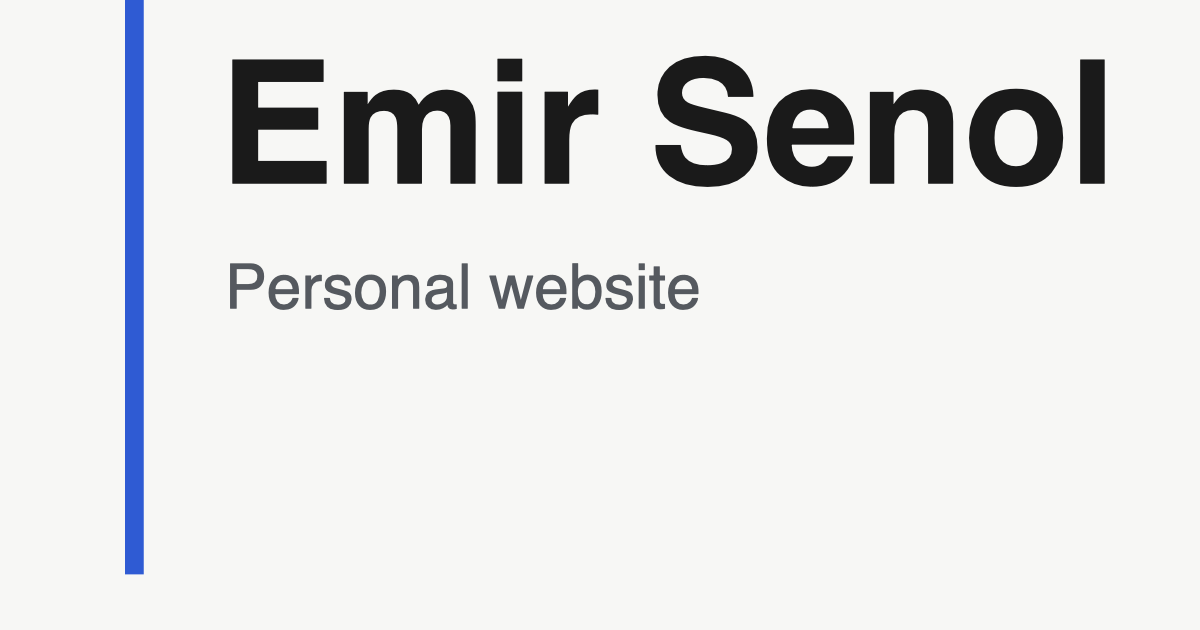
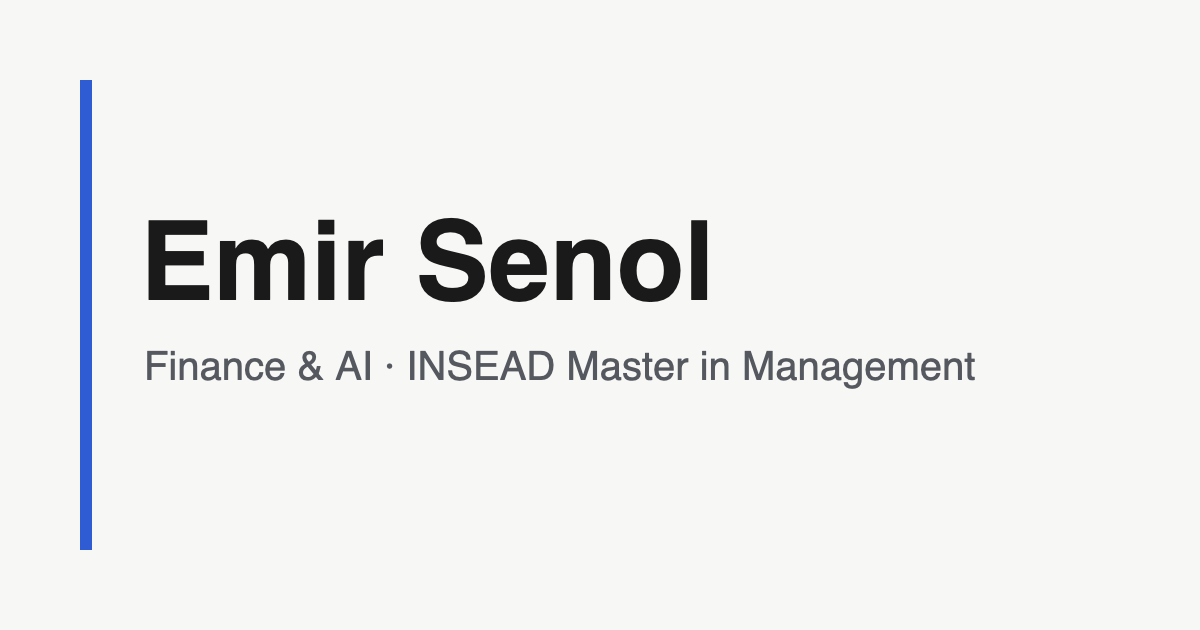
Fill in site content from résumé
Replace placeholder text with real bio, skills, languages, projects,
experience and contact details; refresh the social preview image and
page metadata. Keep the local .claude/ preview config out of Git.

Changed region(s): [[0.0617, 0.0, 0.6167, 0.9349], [0.185, 0.0905, 0.925, 0.3016], [0.3392, 0.5429, 0.8325, 0.6032]]

diff --git a/index.html b/index.html
@@ -10,22 +10,23 @@
        If you change your Netlify address, update https://personal-portfolio1-kbnw.netlify.app
        below too (social sites need a full URL for images).
        ============================================================ -->
-  <title>Emir Senol — Personal Website</title>
-  <meta name="description" content="Emir Senol's personal website: about, projects, experience, and how to get in touch.">
+  <title>Emir Senol — Finance &amp; AI</title>
+  <meta name="description" content="Emir Senol is an INSEAD Master in Management student working where finance meets AI, with experience at PwC, the Credit Bureau of Turkey and Union Bancaire Privée.">
   <meta name="author" content="Emir Senol">
   <meta name="theme-color" content="#f7f7f5" media="(prefers-color-scheme: light)">
   <meta name="theme-color" content="#121212" media="(prefers-color-scheme: dark)">
   <meta name="color-scheme" content="light dark">
+  <link rel="canonical" href="https://personal-portfolio1-kbnw.netlify.app/">
 
   <meta property="og:type" content="website">
-  <meta property="og:title" content="Emir Senol">
-  <meta property="og:description" content="Emir Senol's personal website: about, projects, experience, and how to get in touch.">
+  <meta property="og:title" content="Emir Senol — Finance &amp; AI">
+  <meta property="og:description" content="INSEAD Master in Management student working where finance meets AI. Previously at PwC, the Credit Bureau of Turkey and Union Bancaire Privée.">
   <meta property="og:url" content="https://personal-portfolio1-kbnw.netlify.app/">
   <meta property="og:image" content="https://personal-portfolio1-kbnw.netlify.app/images/og-image.png">
-  <meta property="og:image:alt" content="Emir Senol — personal website">
+  <meta property="og:image:alt" content="Emir Senol — Finance &amp; AI">
   <meta name="twitter:card" content="summary_large_image">
-  <meta name="twitter:title" content="Emir Senol">
-  <meta name="twitter:description" content="Emir Senol's personal website: about, projects, experience, and how to get in touch.">
+  <meta name="twitter:title" content="Emir Senol — Finance &amp; AI">
+  <meta name="twitter:description" content="INSEAD Master in Management student working where finance meets AI. Previously at PwC, the Credit Bureau of Turkey and Union Bancaire Privée.">
   <meta name="twitter:image" content="https://personal-portfolio1-kbnw.netlify.app/images/og-image.png">
 
   <link rel="icon" href="images/favicon.svg" type="image/svg+xml">
@@ -60,9 +61,9 @@
         <p class="eyebrow">Hi, I'm</p>
         <h1 class="hero__name">Emir Senol</h1>
         <!-- EDIT ME: your one-line tagline -->
-        <p class="hero__tagline">[Your tagline] — e.g. “Builder, learner, and curious about how things work.”</p>
+        <p class="hero__tagline">I work where finance meets AI. Master in Management student at INSEAD, previously at PwC, the Credit Bureau of Turkey and Union Bancaire Privée.</p>
         <div class="hero__actions">
-          <a class="btn btn--primary" href="#projects">See my work</a>
+          <a class="btn btn--primary" href="#experience">See my experience</a>
           <a class="btn" href="#contact">Get in touch</a>
         </div>
       </div>
@@ -74,51 +75,59 @@
       <div class="about">
         <!-- EDIT ME: your 2–3 sentence bio -->
         <p>
-          [Your bio, sentence one: who you are and what you're focused on right now.]
-          [Sentence two: what you enjoy building or studying, and why.]
-          [Sentence three: what you're looking for — opportunities, collaborators, or just saying hello.]
+          I'm a Master in Management student at INSEAD in Singapore, after a BSc in
+          International Economics, Management and Computer Science at Bocconi University in Milan.
+          My work so far has sat between finance and technology: IPOs and bond offerings at PwC,
+          Turkish-language LLM tools and synthetic credit data at the Credit Bureau of Turkey,
+          and investment analysis at Union Bancaire Privée in Geneva.
+          I'm drawn to problems that need both a solid financial model and the data skills to back it up.
         </p>
         <h3 class="about__subtitle">What I do</h3>
         <!-- EDIT ME: add, remove, or rename skills -->
         <ul class="tags" aria-label="Skills">
-          <li>HTML &amp; CSS</li>
-          <li>JavaScript</li>
-          <li>Python</li>
-          <li>Git &amp; GitHub</li>
-          <li>[Skill]</li>
-          <li>[Skill]</li>
+          <li>Financial modelling &amp; valuation</li>
+          <li>Capital markets (IPOs &amp; bonds)</li>
+          <li>Accounting &amp; financial statement analysis</li>
+          <li>Python (pandas, PyTorch, scikit-learn)</li>
+          <li>Machine learning &amp; LLMs</li>
+          <li>SQL &amp; R</li>
+        </ul>
+        <h3 class="about__subtitle">Languages</h3>
+        <ul class="tags" aria-label="Languages">
+          <li>Turkish (native)</li>
+          <li>English (native)</li>
+          <li>Italian (intermediate)</li>
         </ul>
       </div>
     </section>
 
     <!-- ===================== PROJECTS ===================== -->
     <section class="section container reveal" id="projects" aria-labelledby="projects-title">
-      <h2 class="section__title" id="projects-title">Projects</h2>
-      <!-- EDIT ME: one <li class="card"> per project. Copy/paste a block to add more. -->
+      <h2 class="section__title" id="projects-title">Projects &amp; Research</h2>
+      <!-- EDIT ME: one <li class="card"> per project. Copy/paste a block to add more.
+           A project without a public link can simply leave out the <a class="card__link"> line. -->
       <ul class="cards">
         <li class="card">
-          <!-- EDIT ME: swap in a screenshot, e.g. images/project-1.png -->
-          <img class="card__img" src="images/project-placeholder.svg" alt="Screenshot of Personal Website" width="640" height="360" loading="lazy">
+          <!-- EDIT ME: swap in an image, e.g. images/project-thesis.png -->
+          <img class="card__img" src="images/project-placeholder.svg" alt="" width="640" height="360" loading="lazy">
           <div class="card__body">
-            <h3 class="card__title">Personal Website</h3>
-            <p>This site — hand-written HTML, CSS and JavaScript, deployed on Netlify.</p>
+            <h3 class="card__title">Innovation Strategies: EU, USA &amp; China</h3>
+            <p>Bocconi undergraduate thesis comparing national innovation systems (policy, funding and public–private collaboration) to draw recommendations for the UAE.</p>
+          </div>
+        </li>
+        <li class="card">
+          <img class="card__img" src="images/project-placeholder.svg" alt="" width="640" height="360" loading="lazy">
+          <div class="card__body">
+            <h3 class="card__title">The Evergrande Crisis</h3>
+            <p>Published analysis for the Bocconi Economics Students Association on China's real-estate risks and their global financial implications.</p>
+          </div>
+        </li>
+        <li class="card">
+          <img class="card__img" src="images/project-placeholder.svg" alt="" width="640" height="360" loading="lazy">
+          <div class="card__body">
+            <h3 class="card__title">This website</h3>
+            <p>Hand-written HTML, CSS and JavaScript with no build step, deployed on Netlify from GitHub.</p>
             <a class="card__link" href="https://github.com/emirsenol2011-coder/personal-portfolio1">View on GitHub <span aria-hidden="true">→</span></a>
-          </div>
-        </li>
-        <li class="card">
-          <img class="card__img" src="images/project-placeholder.svg" alt="Screenshot of Project Two" width="640" height="360" loading="lazy">
-          <div class="card__body">
-            <h3 class="card__title">[Project Two]</h3>
-            <p>[One-line description of what it does and what you used to build it.]</p>
-            <a class="card__link" href="#">View project <span aria-hidden="true">→</span></a>
-          </div>
-        </li>
-        <li class="card">
-          <img class="card__img" src="images/project-placeholder.svg" alt="Screenshot of Project Three" width="640" height="360" loading="lazy">
-          <div class="card__body">
-            <h3 class="card__title">[Project Three]</h3>
-            <p>[One-line description of what it does and what you used to build it.]</p>
-            <a class="card__link" href="#">View project <span aria-hidden="true">→</span></a>
           </div>
         </li>
       </ul>
@@ -130,19 +139,34 @@
       <!-- EDIT ME: one <li> per item, newest first -->
       <ol class="timeline">
         <li class="timeline__item">
-          <p class="timeline__date">[2025 — Present]</p>
-          <h3 class="timeline__title">[Role or Program] · <span class="timeline__org">[Organization]</span></h3>
-          <p>[One or two lines on what you did or learned.]</p>
+          <p class="timeline__date">2026 — 2028</p>
+          <h3 class="timeline__title">Master in Management · <span class="timeline__org">INSEAD, Singapore</span></h3>
+          <p>Ranked #3 worldwide in the Financial Times Master in Management ranking (2025). Coursework in corporate finance, valuation and financial statement analysis.</p>
         </li>
         <li class="timeline__item">
-          <p class="timeline__date">[2023 — 2025]</p>
-          <h3 class="timeline__title">[Role or Program] · <span class="timeline__org">[Organization]</span></h3>
-          <p>[One or two lines on what you did or learned.]</p>
+          <p class="timeline__date">2025 — 2026</p>
+          <h3 class="timeline__title">Associate, Capital Markets &amp; Accounting Advisory · <span class="timeline__org">PwC, Istanbul</span></h3>
+          <p>Worked on IPOs and bond offerings across banking, real estate, agribusiness, industrials and telecom: drafting prospectus sections, checking valuations against comparables, and independently modelling reported financials.</p>
         </li>
         <li class="timeline__item">
-          <p class="timeline__date">[Year]</p>
-          <h3 class="timeline__title">[Award, certificate, or milestone]</h3>
-          <p>[Short note about it.]</p>
+          <p class="timeline__date">2024 — 2025</p>
+          <h3 class="timeline__title">Generative AI Engineer · <span class="timeline__org">Kredi Kayıt Bürosu (Credit Bureau of Turkey), Istanbul</span></h3>
+          <p>Built Turkish-language LLM and retrieval-based document tools that cut internal IT and support requests by over 50%, and evaluated synthetic-data techniques with Prometeia and IBM for a new product line serving partner banks.</p>
+        </li>
+        <li class="timeline__item">
+          <p class="timeline__date">2022</p>
+          <h3 class="timeline__title">Investment Analyst Intern · <span class="timeline__org">Union Bancaire Privée, Geneva</span></h3>
+          <p>Co-prepared investment pitches later approved by the Investment Committee, built financial models within a $10B AUM portfolio, and applied NLP and Monte Carlo simulation to portfolio risk.</p>
+        </li>
+        <li class="timeline__item">
+          <p class="timeline__date">2020 — 2024</p>
+          <h3 class="timeline__title">BSc International Economics, Management &amp; Computer Science · <span class="timeline__org">Bocconi University, Milan</span></h3>
+          <p>Head of Human Resources at the Bocconi Data Science Association (12 events, 500+ attendees) and Research Analyst at the Bocconi Economics Students Association.</p>
+        </li>
+        <li class="timeline__item">
+          <p class="timeline__date">Certifications</p>
+          <h3 class="timeline__title">Machine Learning Specialization · <span class="timeline__org">DeepLearning.AI &amp; Stanford University</span></h3>
+          <p>Also: Private Equity &amp; Venture Capital (Università Bocconi).</p>
         </li>
       </ol>
     </section>
@@ -150,12 +174,14 @@
     <!-- ===================== CONTACT ===================== -->
     <section class="section container reveal" id="contact" aria-labelledby="contact-title">
       <h2 class="section__title" id="contact-title">Contact</h2>
-      <p class="contact__lead">Want to work together or just say hi? My inbox is open.</p>
-      <!-- EDIT ME: put in your real email and profile links -->
-      <a class="btn btn--primary" href="mailto:you@example.com">you@example.com</a>
+      <p class="contact__lead">Happy to talk about finance, AI and new opportunities. Email is the quickest way to reach me.</p>
+      <!-- EDIT ME: your email and profile links -->
+      <a class="btn btn--primary" href="mailto:emirsenol0402@gmail.com">emirsenol0402@gmail.com</a>
       <ul class="socials">
         <li><a href="https://github.com/emirsenol2011-coder">GitHub</a></li>
+        <!-- EDIT ME: add your LinkedIn address and remove the comment marks around this line
         <li><a href="https://www.linkedin.com/in/YOUR-PROFILE">LinkedIn</a></li>
+        -->
       </ul>
     </section>
 
